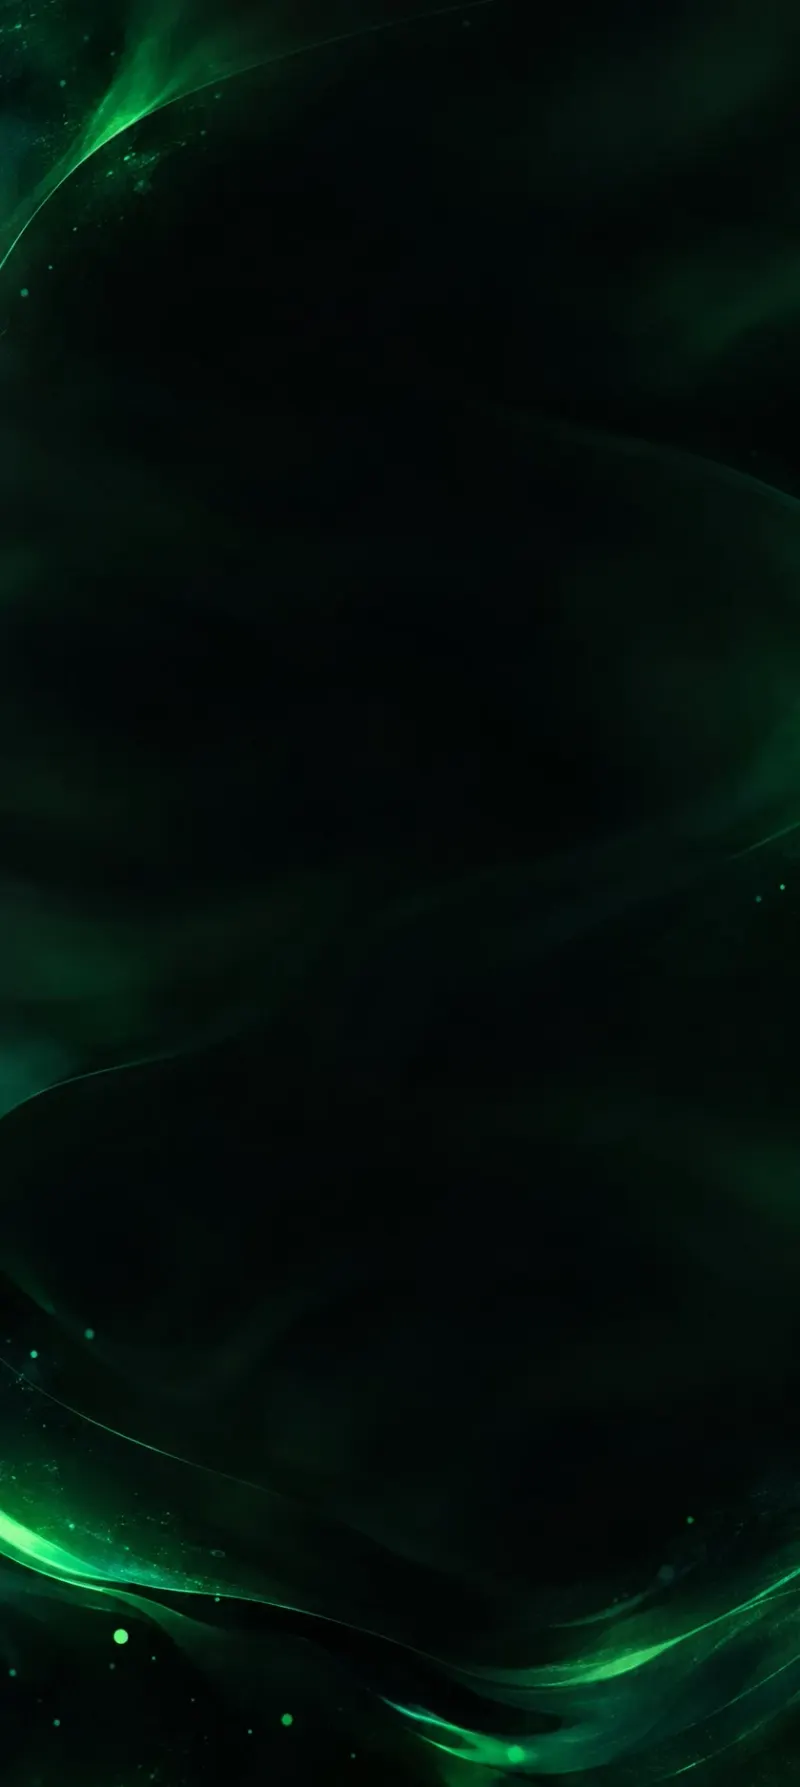
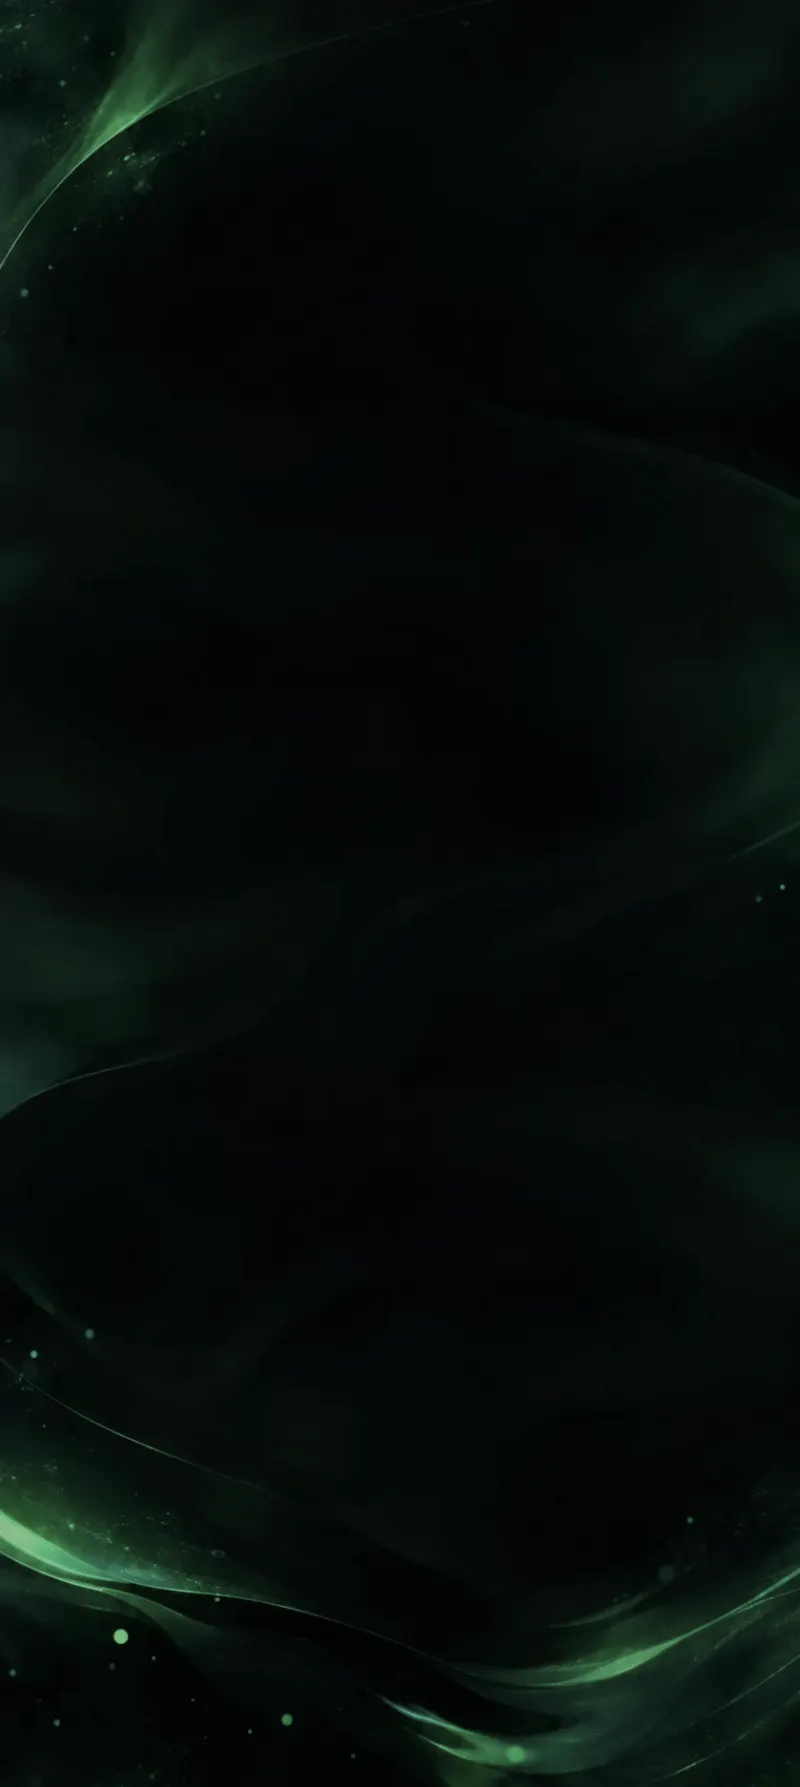
Tone down green intensity: desaturate background art, subtler contour glow
Background image desaturated (55%) and dimmed (80% brightness), dark
overlay tint increased slightly, contour glow box-shadow values cut
roughly in half, and the backdrop-filter saturate() boost dropped from
140-160% to 108% everywhere (it was amplifying the green further on top
of an already-green image). Calmer, closer to what a liquid-glass surface
should look like rather than a neon wash.

Still pending user confirmation before building an APK.

Claude-Session: https://claude.ai/code/session_01WVvuS5JFmSoo1fz4DXYTBy

diff --git a/src/index.css b/src/index.css
@@ -75,7 +75,7 @@ body {
      stays visible (and worth being translucent over) all the way down the
      scrolling content, not just near the top of the viewport. */
   background:
-    linear-gradient(180deg, rgba(8, 9, 10, 0.1) 0%, rgba(8, 9, 10, 0.3) 100%),
+    linear-gradient(180deg, rgba(8, 9, 10, 0.25) 0%, rgba(8, 9, 10, 0.45) 100%),
     url("/bg/neon-glow.webp");
   background-size: cover, cover;
   background-position: top center, top center;
@@ -115,34 +115,32 @@ body {
 
 /* Frosted glass chrome — translucent surface + soft contour glow, liquid-glass style */
 .glass {
-  background: rgba(17, 19, 18, 0.55);
-  backdrop-filter: blur(28px) saturate(150%);
-  -webkit-backdrop-filter: blur(28px) saturate(150%);
+  background: rgba(17, 19, 18, 0.6);
+  backdrop-filter: blur(28px) saturate(108%);
+  -webkit-backdrop-filter: blur(28px) saturate(108%);
 }
 /* Stronger blur for overlay sheets, where it sits over the busiest part of the background art */
 .glass-strong {
-  background: rgba(14, 16, 15, 0.7);
-  backdrop-filter: blur(48px) saturate(160%);
-  -webkit-backdrop-filter: blur(48px) saturate(160%);
+  background: rgba(14, 16, 15, 0.75);
+  backdrop-filter: blur(48px) saturate(108%);
+  -webkit-backdrop-filter: blur(48px) saturate(108%);
 }
 /* ColorOS-style contour glow: a bright rim catching light top-left, cool accent bounce
-   bottom-right, plus a thin accent outline and soft outer bloom. */
+   bottom-right, plus a thin accent outline and soft outer bloom — kept subtle. */
 .glass-contour {
   box-shadow:
-    inset 1.5px 1.5px 0 -0.5px rgba(255, 255, 255, 0.5),
-    inset -1px -1px 0 -0.5px rgba(34, 197, 94, 0.3),
-    inset 0 0 20px -8px rgba(74, 222, 128, 0.25),
-    0 0 0 1px rgba(34, 197, 94, 0.2),
-    0 2px 10px -2px rgba(74, 222, 128, 0.25),
-    0 14px 50px -14px rgba(34, 197, 94, 0.5);
+    inset 1.5px 1.5px 0 -0.5px rgba(255, 255, 255, 0.4),
+    inset -1px -1px 0 -0.5px rgba(34, 197, 94, 0.14),
+    0 0 0 1px rgba(34, 197, 94, 0.1),
+    0 10px 36px -16px rgba(34, 197, 94, 0.28);
 }
 
 /* Every card/surface in the app becomes part of the glass system */
 .bg-surface,
 .bg-surface-2,
 .bg-surface-3 {
-  backdrop-filter: blur(18px) saturate(140%);
-  -webkit-backdrop-filter: blur(18px) saturate(140%);
+  backdrop-filter: blur(18px) saturate(108%);
+  -webkit-backdrop-filter: blur(18px) saturate(108%);
 }
 
 ::-webkit-scrollbar {
